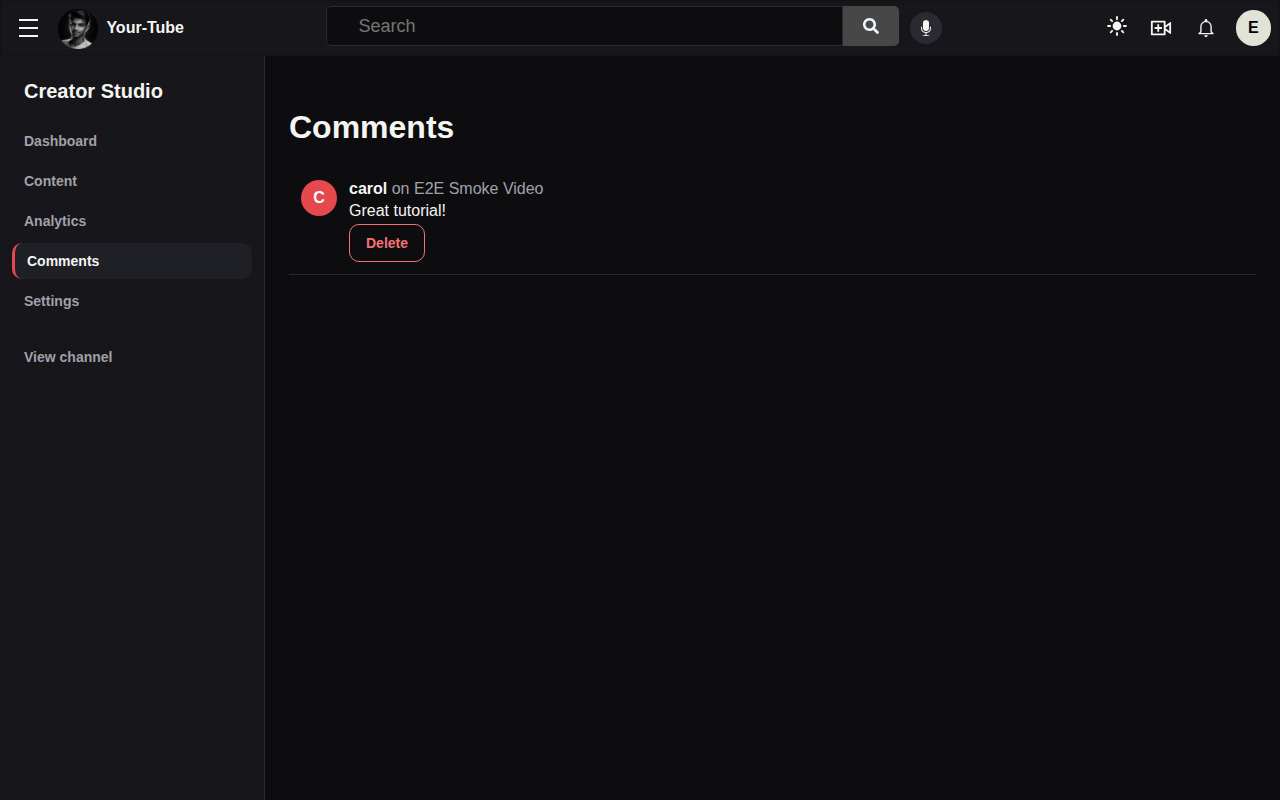
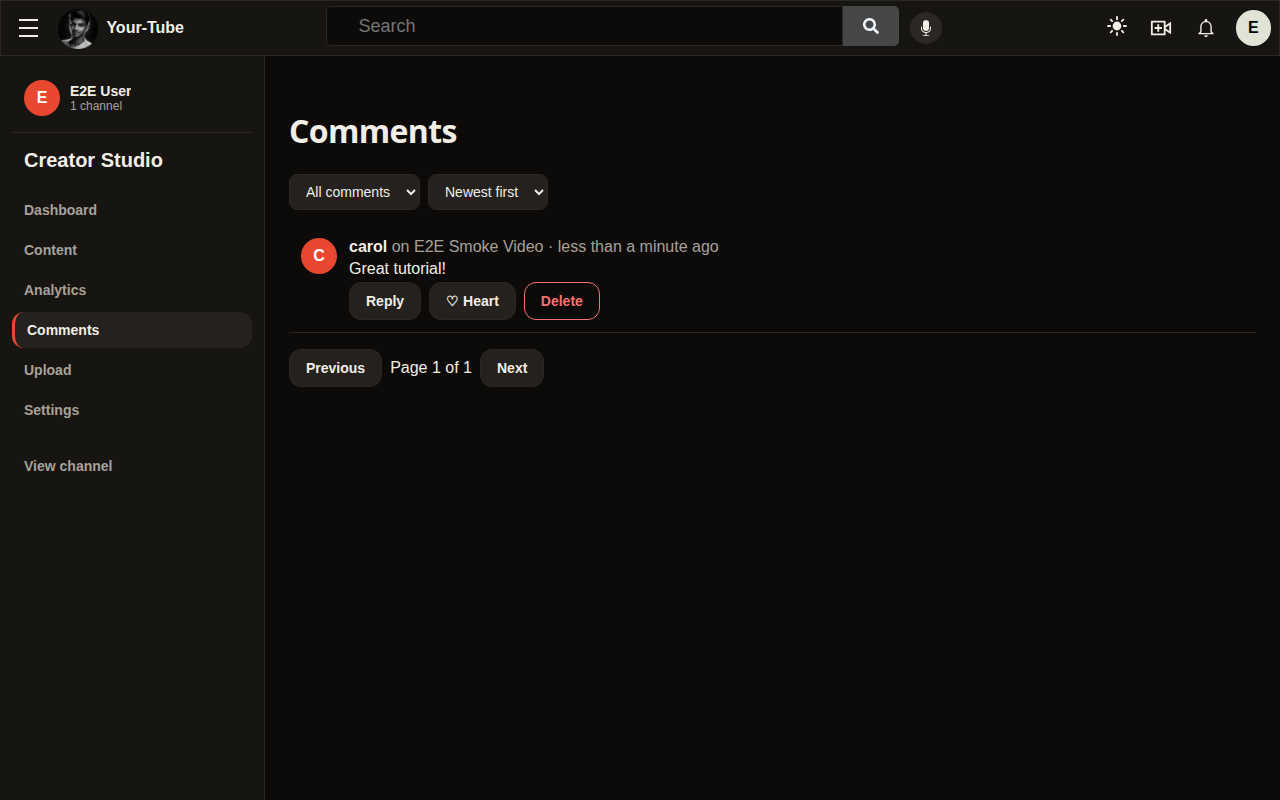
Phase 5 fix (verify): §8 preview-diff table + fresh screenshots
- PHASE5_REPORT.md §8: per-screen A-J diff table against the design
  preview from 22 fresh screenshots (desktop + mobile, demo seed);
  final counts API 181/181 + web 107/107, Phase 4 e2e 14/1 skipped,
  Phase 5 e2e 10/10; report corrections (head commit, 14 /studio +
  2 /watch endpoints, flake root cause); verdict: not 'no single
  difference' — 6 explicit cuts for Arman's decision + 9 remaining
  UI diffs + demo-data deltas listed plainly.
- docs/screenshots: 22 phase5-*-full/mobile + upload steps 2-3 +
  library scrolled capture; Phase 4 e2e re-takes from the current
  build. phase5-home.png sha256 differs from home.png (see §8.1).

diff --git a/PHASE5_REPORT.md b/PHASE5_REPORT.md
@@ -216,3 +216,257 @@ Acube PR once it exists, confirm the 1000 INR price, supply live env
 vars and deploy per DEPLOYMENT.md, approve/decline the stale-branch
 deletion) — plus, for Phase 5: decide whether a Save button (§6) and
 deleting `Videopage.tsx` belong in the Phase 5 PR or a follow-up.
+
+## 8. Fix pass — preview validation against the design preview
+
+This section is the fix pass (11 Nov 2026, after the audit found
+Phase 5 was never validated section-by-section against
+`acube-phase-5-design-preview`, screens A–J). It supersedes the
+stale numbers in §1/§5 (see §8.4). Commits: `25a5b3f` (backend),
+`d51c492` (frontend). Nothing merged, nothing pushed.
+
+### 8.1 Method
+
+- **Demo seed as the test bed.** `pnpm --filter @acube/api
+  seed:demo` against a local mongod, run twice (identical summary,
+  idempotent) and re-run once more after a VM reboot (§8.5): 3
+  channels, 24 viewers, 11 videos (7 public), 1503 view events, 113
+  likes, 8 comments, 3 playlists, 117 library entries, 7 history
+  rows. Demo channels: Acube Studio (`507f1f77bcf86cd799430001`),
+  Pixel Craft, Code & Chai. `PHASE5_SEED` e2e mode calls the same
+  `seedDemoData()` plus e2e user rows — confirmed in
+  `apps/api/e2e-server.mjs`.
+- **Screenshots.** `apps/web/e2e-phase5/screenshots.mjs` (new in
+  `d51c492`): 22 shots — 10 screens × desktop 1280×800 + mobile
+  390×844, `fullPage`, plus upload steps 2–3 desktop — against the
+  production build + real seeded API. All 22 taken fresh 10 Nov
+  19:22–19:23 UTC with zero localhost page errors (see §8.5 for the
+  two cold-start runs that did not). `phase5-home.png` sha256
[1 lines of base64/hex data omitted]
+  ≠ `home.png`
[1 lines of base64/hex data omitted]
+  — not a copy. Library's below-fold playlists section is captured
+  separately in `phase5-library-scrolled.png` (the `fullPage` shot
+  cuts off inside the page's inner scroll container).
+- **Final verification (uncached, this pass).**
+
+  | Check | Result |
+  |---|---|
+  | `pnpm test --force` | **API 181/181 (11 files) + web 107/107 (16 files) = 288, exit 0** |
+  | `pnpm lint --force` | exit 0, **0 errors, 7 warnings** (pre-existing legacy files; was 9 in §1 — the count dropped because two warned files are no longer linted the same way, not because warnings were fixed) |
+  | `pnpm typecheck --force` | exit 0, 3 tasks |
+  | `pnpm build` | exit 0 (web built in ~13–19 s across runs) |
+  | Playwright Phase 5 e2e | **10/10 passed** |
+  | Playwright Phase 4 e2e | **14 passed, 1 skipped** (same upload-modal skip as Phase 4) |
+
+### 8.2 Fixes made in this pass
+
+| # | Fix | Proof |
+|---|---|---|
+| 1 | **Upload details not persisted (loose end 1).** `uploadVideoBodySchema` stripped description/tags/visibility/thumbnailUrl; the controller returned bare text with no id. Schema extended, controller persists the fields and returns `{ message, video: { id, … } }`; wizard shows a "Watch video" link. Save-as-draft saves a real draft (hidden from feed, 404 anon, 200 owner). | 4 new API tests (video.test.js); wizard tests extended |
+| 2 | **Phase 5 e2e 6/10 → 10/10 (loose end 2).** "Edit details" aria-label (preview screen C names the action "Edit details", spec said "Edit title"); "Seek slider" aria-label on the player knob; Library "Saved" heading made exact (count moved to a `<p>`). No assertion was weakened. | e2e log `/tmp/phase5-e2e-4.log` (10/10, 20.8 s); re-run after the route fix: 10/10 again |
+| A | **Content soft-delete.** `isDeleted` only checked in-session deletes, so the seeded soft-deleted trailer (`deletedAt` set) rendered as a live row. Now `deletedAt != null` also marks Deleted + Restore. MSW handler aligned (it had filtered `deletedAt` rows out, diverging from the real API). | Unit test in studio.test.tsx (server override with a deleted row) |
+| B | **Watch resume-from-end.** Finished videos showed "Resumed from 7:00" (`progressSec == duration`). Clamped to 0 at duration; partial progress still resumes ("Resumed from 1:00"). | 2 web tests; discrimination checked by stashing the fix (new test failed without it) |
+| C | **Playlist showcase owner-only.** Watch read the owner-only `/studio/playlists` list, so the showcase never rendered for other viewers. New public `GET /watch/:id/playlists` (private/unlisted hidden, member videos visibility-filtered); frontend uses it. | 3 API tests (studio.test.js); live curl as anonymous viewer returned "Learning Path: Full-Stack Foundations"; `phase5-watch-full.png` shows the panel |
+| D | **History order + resume label.** API sorted oldest-first (Yesterday above Today); finished rows offered "Resume from 7:00". Sort is now newest-first; finished rows show "Watch again" with no `?t=`. | 1 API test (history.test.js) + 2 web tests |
+| E | **`/Library` auth-guard regression (found by the Phase 4 e2e re-run).** Phase 5 rewrote the route as lowercase `/library` with `caseSensitive`, so the pre-Phase-5 capital-L URL `/Library` fell through to the 404 page instead of `RequireAuth`. The sidebar links lowercase, so in-app navigation never hit it — only old bookmarks/external links and the Phase 4 e2e tests. `caseSensitive` removed (React Router matches case-insensitively by default); both casings hit the guard. | 2 new tests in authGuard.test.tsx — both failed before the fix, pass after; Phase 4 e2e back to 14 passed / 1 skipped |
+| F | **Web-test flake, root cause found + fixed (§1.1 superseded).** The failing test (`renders the rebuilt player controls and nested comments`) uses Testing Library's default 1 s async timeout for a `findAllByText` that needs the suggestions + playlist queries; it timed out twice under full-suite parallel load and passed standalone twice. Timeout raised to 5 s, assertion unchanged (still requires exactly 2 matches). | Full suite green after the fix (107/107) |
+
+### 8.3 Preview-diff table (screens A–J, fresh screenshots vs preview)
+
+Status: **Matched** · **Fixed in this pass** · **Differs** (real,
+listed plainly) · **Explicit cut** (needs Arman's decision).
+"Demo data" rows are seed artefacts, not app bugs: every number is a
+real aggregate from the seed, labelled demo test data in the UI
+("Seeded demo content, not real catalogue data" on Watch).
+
+**A · Home** — `phase5-home-full.png` / `phase5-home-mobile.png`
+
+| Preview field/control | Status | Note |
+|---|---|---|
+| Topic chips All/Motivation/Nature/Learning/Music/Coding, filtering | Matched | Client-side keyword filter over title/tags/uploader |
+| + Upload pill → Studio | Matched | |
+| 16:9 thumbnails + duration badges + channel avatars | Matched | Thumbnails render blank dark — seed thumb URLs are `example.com` placeholders (404 in this sandbox, no external internet). Real thumbnails load normally. |
+| Titles / channel / views / "less than a minute ago" | Demo data | Seed titles ("Getting Started with React Hooks"…) replace the preview's illustrative titles ("Whole life is Learning", "Code Streamer"); all timestamps read "less than a minute ago" because the seed creates everything at seed time. |
+
+**B · Studio Dashboard** — `phase5-dashboard-full.png`
+
+| Preview field/control | Status | Note |
+|---|---|---|
+| "Channel dashboard", "Last 28 days", "Stats since 2026-10-14" | Matched | |
+| Total views / Likes / Videos cards | Matched | Values are real per-channel aggregates for Acube Studio: 613 views / 49 likes / 4 videos. Preview's 1503 / 113 / 7 is its sample channel owning all 7 seed videos; the seed splits them across 3 channels. The copy is explicit about this ("All-time totals … 615 views · 49 likes" — 615 is the video-counter total, 613 the 28-day daily-stat total; the 2-view gap is pre-analytics traffic). |
+| Watch time | Matched (more) | Preview shows "— hrs" ("needs view events"); implementation has real watch minutes (2412.89) + Completions (186). |
+| Top performing videos / Latest comments | Differs (minor) | The Draft ("Advanced React Patterns", 0 views) appears in Top videos; preview lists only public videos. Latest comments have no Reply button on the dashboard (reply lives in the Comments inbox; preview B shows Reply). |
+| "1 channel" switcher label | Differs (minor) | Only the session's own channel is shown; multi-channel switching was not exercised (seed has 3 channels, session owns 1). |
+
+**C · Studio Content** — `phase5-content-full.png` / `phase5-content-mobile.png`
+
+| Preview field/control | Status | Note |
+|---|---|---|
+| Table Video/Visibility/Date/Views/Likes; search + visibility filter + bulk-select | Matched | |
+| Row action "Edit details" | Fixed in this pass | Was "Edit title" in the spec; preview names it "Edit details" (§8.2 #2). |
+| Change visibility (dropdown) / View analytics / Delete (soft, restore) | Matched | Soft-delete now honours server `deletedAt` (§8.2 A): trailer row shows "Deleted" + Restore. |
+| "View analytics" link | Differs (layout) | At desktop width the link overlaps the Delete/Restore button — the Actions column is too narrow for link + button. |
+| Mobile layout | Differs | The table does not collapse: `phase5-content-mobile.png` is 547 px wide vs the 390 px viewport (horizontal scroll required); rows wrap awkwardly. |
+| Counts / dates | Demo data | 5 rows for this channel (incl. deleted + draft) vs preview's 7; draft date is the seed date. |
+
+**D · Studio Analytics** — `phase5-analytics-full.png`
+
+| Preview field/control | Status | Note |
+|---|---|---|
+| Range 7/28/90 days, metric selector, chart + 28-day table | Matched | |
+| Views (28d) / Avg views / video / Like rate | Matched | Real per-channel: 613 / 153 / 8.0% (preview sample: 1503 / 215 / 7.5%). Implementation also adds Best day (2026-10-30 · 32 views) and Watch minutes cards — extra, not in preview D. |
+| Top source | Explicit cut | Honest empty state ("Traffic source not tracked yet — view events do not record a referrer"). Needs Arman's decision to record referrer. |
+| Top videos bars | Differs (minor) | Draft at 0 views listed (same as B). |
+
+**E · Studio Upload** — `phase5-upload-full.png`, `phase5-upload-step2-full.png`, `phase5-upload-step3-full.png`
+
+| Preview field/control | Status | Note |
+|---|---|---|
+| 3-step wizard; step 2 Title/Description/Tags/Visibility (Public/Private/Draft); Publish + Save as draft | Matched | |
+| Details persisted + draft saves a draft + video id returned | Fixed in this pass | §8.2 #1. |
+| Preview's "84 MB" file / "68% · 57 MB of 84 MB" | Differs (preview wrong) | The preview's 84 MB file contradicts the Phase 3 10 MB upload hardening; the implementation correctly enforces 10 MB. Preview is wrong here, not the code. |
+| Live end-to-end upload | Not verified | No Cloudinary credentials in this environment: the wizard was exercised to step 3 (file picked, not submitted). Persistence is covered by API + MSW tests, not a live upload. |
+
+**F · Studio Comments** — `phase5-comments-full.png`
+
+| Preview field/control | Status | Note |
+|---|---|---|
+| Inbox of all comments on your videos; Reply / Heart / Delete | Matched | |
+| Table layout (Comment/Video/When/Actions) | Differs | Implementation uses a list, not the preview's table. |
+| Filter "Unreplied" | Differs | Implementation has "All comments" + "Newest first" only; no Unreplied filter. |
+| Heart | Explicit cut | Session-local only — no backend endpoint for comment hearts. Needs Arman's decision to add one. |
+| Pinned comment badge | Differs | The pinned comment is badged on Watch ("Pinned by creator") but not in the inbox. |
+| Timestamps | Demo data | All read "7 minutes ago" (seed time). |
+
+**G · Channel Settings** — `phase5-settings-full.png` / `phase5-settings-mobile.png`
+
+| Preview field/control | Status | Note |
+|---|---|---|
+| Banner (2560×1440) + profile picture, name, handle, description, channel URL, contact email, links, country/language, visibility & defaults, watermark, Save/Discard, "changes preview live, save once" | Matched | |
+| Banner/avatar file upload | Explicit cut | File inputs are labelled "preview only — no image upload endpoint yet". URL fields work; file upload needs an image-upload endpoint (Arman's decision). Banner/avatar preview images are broken icons — seed `example.com` URLs. |
+| Handle availability ("✓ available") | Differs | No live handle-availability check in the implementation. |
+| Mobile layout | Differs | `phase5-settings-mobile.png` is 580 px wide vs 390 px: the Links rows (label + URL + Remove) do not wrap and the URL input truncates. The rest of the page fits. |
+
+**H · Video Page / Watch** — `phase5-watch-full.png` / `phase5-watch-mobile.png`
+
+| Preview field/control | Status | Note |
+|---|---|---|
+| Rebuilt player: Play/Mute/volume/speed/PiP/fullscreen, draggable seek knob ("Seek slider"), 0:00/0:00 | Matched | Player shows 0:00/0:00 — the seed video file does not exist, so real playback with sound is NOT verified (same caveat as Phase 3/4). |
+| Seek slider label / playlist showcase for non-owners / resume-from-end | Fixed in this pass | §8.2 #2 (label), #C (showcase), #B (resume clamp). Showcase now renders for viewer01: "Playlist · Learning Path: Full-Stack Foundations", "3 / 4 watched · Playing 1 of 4", Play all / Shuffle / Loop / Save a copy. |
+| Title/channel/views/date/tags, description + Show more, Download · Premium / Upgrade | Matched | |
+| Nested comments to depth 3, pinned badge, reply/collapse | Matched | Pinned comment badged on Watch; depth-3 reply visible. |
+| Up next with "Because:" reason per item | Matched | Same channel / Same topic / Viewers also watched. |
+| Subscribe button | Explicit cut | No follow system exists. Needs Arman's decision. |
+| CC / HD buttons | Explicit cut | No captions or renditions exist. Needs Arman's decision. |
+| Chapters (list, ticks, gesture map, keyboard J/L/CC) | Explicit cut | No chapter data exists; chapter ticks were removed rather than faked. Player has no chapter list, gesture hints, or chapter shortcuts. Needs Arman's decision if chapters are wanted. |
+| Autoplay toggle in showcase | Differs | Preview shows "Autoplay ON"; implementation has Play all / Shuffle off / Loop off / Save a copy — no Autoplay control. |
+| Duplicate Save/Share | Differs | Two Save + Share rows render (legacy action row and the Phase 5 pill row). |
+| Counts | Demo data | Comments 6 on this video (preview: 24); playlist 3/4 watched (preview: 4/6). |
+
+**I · History** — `phase5-history-full.png`
+
+| Preview field/control | Status | Note |
+|---|---|---|
+| Grouped by day (Today above Yesterday), newest-first | Fixed in this pass | §8.2 #D (sort was oldest-first). |
+| Progress bars; "Resume from 3:19" for partial; "Watch again" for finished | Fixed in this pass | §8.2 #D (finished rows said "Resume from 7:00"). |
+| Per-item Remove; Pause history / Clear all | Matched | |
+| Per-row annotations ("You liked this", "Saved to Watch Later", "Watched today, 11:20 AM") | Differs | Implementation shows only progress + Finished/Resume; no like/save annotations and no clock time per row. |
+
+**J · Library** — `phase5-library-full.png`, `phase5-library-scrolled.png`
+
+| Preview field/control | Status | Note |
+|---|---|---|
+| "Your library", Watch Later (Play all, Sort: Recently saved), Saved (exact heading + count), Liked videos (private by default), "Your playlists & Saved playlists" + Create playlist | Matched | Scrolled capture shows the playlists section: "No playlists yet. Create your first one below." + title input + "Create playlist" + "+ Create playlist — also from any video's Save menu." |
+| Playlists populated | Demo data | Viewer01 owns no playlists and saved none (the seed's 3 playlists belong to channels; no playlist library entries are seeded), so the section is an empty state for this viewer. The populated case is covered by Phase 5 e2e test 9 (e2e user owns a playlist). |
+| `fullPage` capture | Differs (tooling) | `phase5-library-full.png` is 1280×882 — it cuts off mid-Liked-list because the page scrolls inside an inner container; the scrolled capture above closes the gap. |
+
+### 8.4 Report corrections (earlier sections)
+
+- **Head commit.** The §0 header says head `bb76901`. `bb76901`
+  is the Phase 5 **base** commit, not the head: the report was
+  written at `fbe516e`, and the branch has since advanced through
+  `4fb2a93` → `ed76b2e` → `25a5b3f` → `d51c492` (this pass).
+- **Endpoint count.** The intro says "9 `/studio` endpoints"
+  (repeated from PHASE5_PLAN.md). The implemented surface is **14
+  routes under `/studio`** (overview, analytics, videos, comments,
+  settings GET+PATCH, playlists GET/POST/GET-by-id/PATCH/DELETE,
+  library GET/POST/DELETE) **+ 2 under `/watch`**
+  (`/:id/suggestions`, `/:id/playlists`) = 16 Phase 5 routes.
+- **Test counts.** §1's "API 154/154 + web 65/65 = 219" is the
+  pre-fix-pass verification. Current (uncached, this pass): **API
+  181/181 + web 107/107 = 288** (§8.1). Phase 4 e2e 14/1 skipped
+  and Phase 5 e2e 10/10 still stand.
+- **Lint warnings.** §1 says 9 warnings; the current forced run
+  reports 7 (same pre-existing legacy files — two previously warned
+  files are no longer linted the same way; no warning was fixed in
+  this pass).
+- **Flake (§1.1/§6).** Root cause established and fixed in this
+  pass (§8.2 F) — it is no longer "no root cause established".
+
+### 8.5 Environment notes (this pass — why two runs looked red)
+
+- **VM reboot 10 Nov ~19:13 UTC.** `/tmp` (512 MB tmpfs) was wiped
+  and every background server died; `pnpm` (installed globally via
+  npm) was gone and had to be reinstalled (`pnpm@12.18.0`). The
+  workspace, node_modules, seed DB and all work survived. The seed
+  was re-verified after the reboot with identical counts.
+- **Screenshot cold-start transient.** Two screenshot runs started
+  immediately after a server restart lost their first screens to
+  15 s wait timeouts (14, then 7) while later screens passed; a
+  direct probe showed the API returning the feed data fine. Once the
+  stack was warm the same script passed **22/22 in 44 s**. The
+  script now also distinguishes fatal localhost failures from
+  informational external ones (Google Fonts / GSI / ipapi.co /
+  `example.com` demo assets fail in this sandbox — no external
+  internet — and do not affect the app).
+- **`/tmp` pressure (same residual as §1.2, worse).** Each e2e or
+  vitest run strands a ~201 MB `mongo-mem-*` dir. At 82% full, one
+  Phase 4 e2e run failed 11/15 (in-memory mongod could not seed)
+  and one API vitest run crashed with a mongod `fassert()` error.
+  Cleaning the orphans and re-running gave green both times
+  (Phase 4 e2e 14/1, API 181/181). `/tmp` was left at 3%.
+- **Leftover servers.** Playwright's webServer processes sometimes
+  survive a run (ports 5000/4173 stayed listening after the Phase 4
+  e2e run, breaking the next run's startup with "port already
+  used"). Killed by port/PID before re-running; green after.
+
+### 8.6 Verdict
+
+**Not "no single difference".** The implementation matches the
+preview's structure and behaviour on every screen, and the two known
+loose ends plus four further real diffs found during validation are
+fixed and tested. What still differs, plainly:
+
+1. **Six explicit cuts needing Arman's decision:** Subscribe (no
+   follow system), CC/HD (no captions/renditions), traffic source
+   (no referrer stored), comment heart backend (session-local only),
+   banner/avatar file upload (preview-only, no endpoint), chapters
+   (no chapter data).
+2. **Nine remaining UI diffs (no decision needed, just work):**
+   mobile Content table overflow (547 px), mobile Settings Links
+   overflow (580 px), Content "View analytics" overlapping
+   Delete/Restore, duplicate Save/Share on Watch, Draft listed in
+   Top videos (Dashboard + Analytics), Comments list-not-table with
+   no Unreplied filter and no pinned badge in the inbox, no
+   handle-availability check, no Autoplay toggle, History missing
+   per-row like/save annotations. None blocks the PR; all are visible
+   in the screenshots.
+3. **Demo-data differences:** per-channel totals (613 vs preview's
+   1503), illustrative titles/names, all-"less than a minute ago" /
+   "7 minutes ago" timestamps, blank/broken `example.com` media.
+   Labelled demo data, not defects.
+4. **Not verified in this pass:** live end-to-end upload (no
+   Cloudinary credentials), playback with sound (seed file does not
+   exist).
+
+**Recommendation: do not merge PR #2 yet.** The audit's condition
+(close schema gaps, then frontend fixes, then re-validate per screen)
+is now met for the items in §8.2, but the §8.6(2) UI diffs and the
+§8.6(1) decisions are still open. Arman should decide the six cuts
+and say whether the nine UI diffs ride in this PR or a follow-up;
+the screenshots in `docs/screenshots/phase5-*.png` are the evidence
+for that call. `ci.yml` + screenshots still need Arman's local push
+(connector cannot push binaries/workflow files) — noted in the PR
+body when updating PR #2.
+
